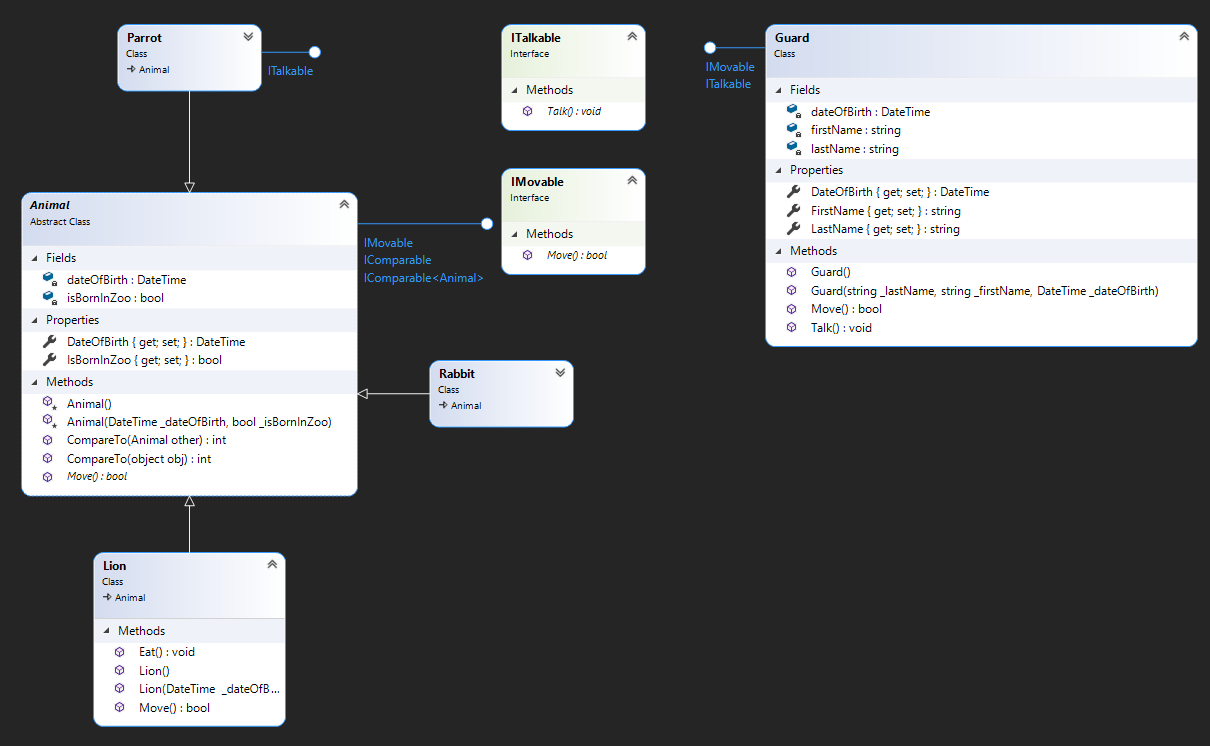
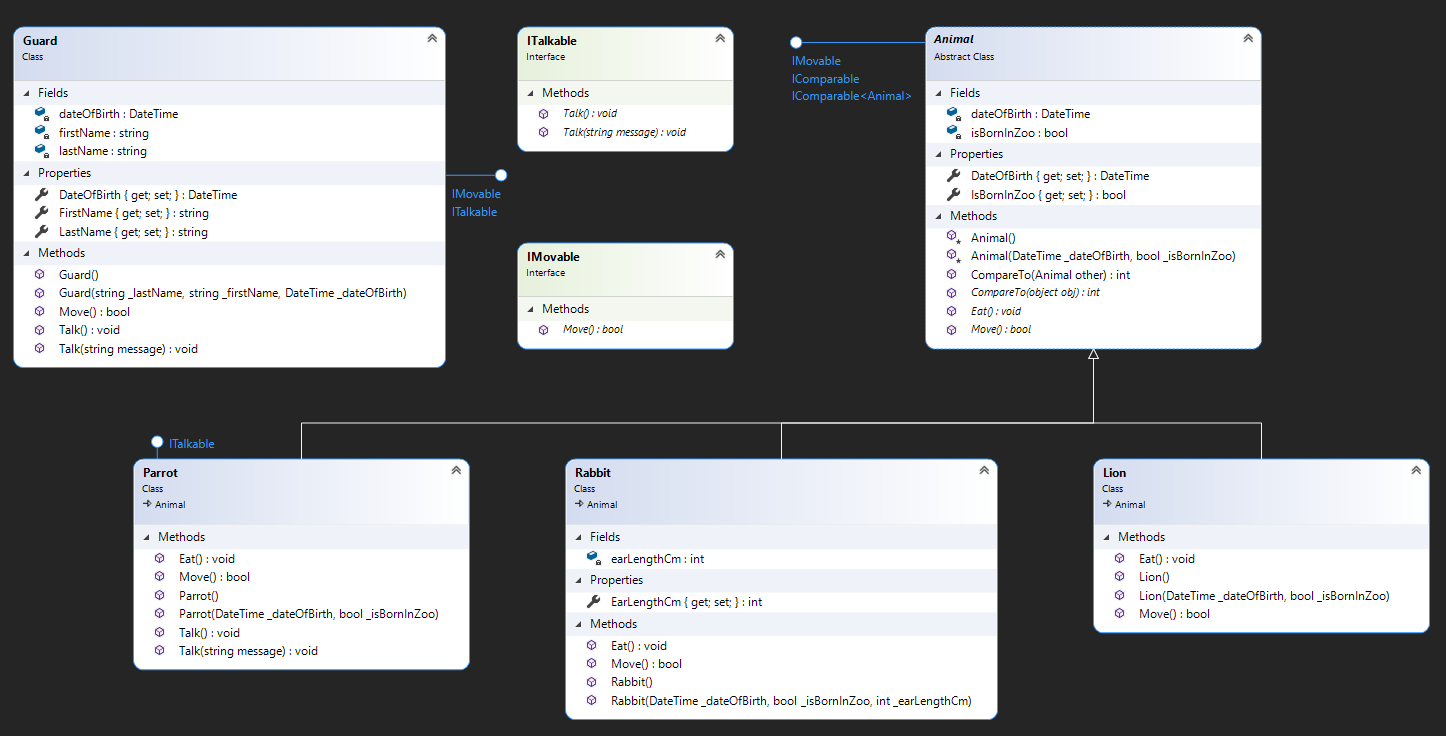
Zoo v1 OK - Need comments and code cleaning

diff --git a/EXERCISES-CDA/ZOO/Utils/Script/ScriptClass.cs b/EXERCISES-CDA/ZOO/Utils/Script/ScriptClass.cs
@@ -1,4 +1,5 @@
 using System;
+using System.Collections;
 using System.Collections.Generic;
 using System.Linq;
 using System.Text;
@@ -64,15 +65,15 @@ namespace ZOO.Utils.Script
             {
                 dontWannaBurn.Move();
             }
-            Console.ReadKey();
             Console.WriteLine("\nPress any key to continue the story...\n");
             Console.WriteLine("......................................\n");
+            Console.ReadKey();
 
             Console.WriteLine("Well, all animals are safe ! Now " + georges.FirstName + " needs to leave though \n");
             georges.Move();
-            Console.ReadKey();
             Console.WriteLine("\nPress any key to continue the story...\n");
             Console.WriteLine("......................................\n");
+            Console.ReadKey();
 
             Console.WriteLine("Lets try to stop the fire and ask for help... Can we count on the parrot ?\n");
             string sos = "PLEASE, CALL THE FIREGUARDS";
@@ -86,14 +87,40 @@ namespace ZOO.Utils.Script
                     georges.Talk($"He's right {sos}");
                 }
             }
-            Console.ReadKey();
             Console.WriteLine("\nPress any key to continue the story...\n");
             Console.WriteLine("......................................\n");
-
-            Console.WriteLine("Fireguards finally came, the zoo is safe !");
             Console.ReadKey();
+
+            Console.WriteLine("It's time to feed the animals :");
+            foreach (Animal wannaEatTheParrot in animalTab)
+            {
+                wannaEatTheParrot.Eat();
+            }
+            Console.WriteLine("\nPress any key to continue the story...\n");
+            Console.WriteLine("......................................\n");
+            Console.ReadKey();
+
+            Console.WriteLine("Fireguards finally came, the zoo is safe, let's sing a song !\n");
+            ArrayList parrotAndGeorge = new ArrayList();
+            parrotAndGeorge.Add(animalTab[2]);
+            parrotAndGeorge.Add(georges);
+            string song = "Ah Ah Ah staying aliiiiive !!!";
+            foreach (Object singer in parrotAndGeorge)
+            {
+                if (singer is Parrot theNoisyParrot)
+                {
+                    Console.Write("Parrot : ");
+                    theNoisyParrot.Talk(song);
+                }
+                else if (singer is Guard georgesWannaBeMadonna)
+                {
+                    Console.Write($"{georges.FirstName} : ");
+                    georgesWannaBeMadonna.Talk(song);
+                }
+            }
             Console.WriteLine("\nPress any key to close the program\n");
             Console.WriteLine("......................................\n");
+            Console.ReadKey();
         }
     }
 }

diff --git a/EXERCISES-CDA/ZOO/ClassZoo/Animals/Animal.cs b/EXERCISES-CDA/ZOO/ClassZoo/Animals/Animal.cs
@@ -51,6 +51,8 @@ namespace ZOO
         /****************************** METHODS ******************************/
         public abstract bool Move();
 
+        public abstract void Eat();
+
         public int CompareTo(object obj)
         {
             if (!(obj is Animal animalToCompare))

diff --git a/EXERCISES-CDA/ZOO/ClassZoo/Animals/Parrot.cs b/EXERCISES-CDA/ZOO/ClassZoo/Animals/Parrot.cs
@@ -20,7 +20,7 @@ namespace ZOO
         // NONE
 
         /****************************** METHODS ******************************/
-        public void Eat()
+        public override void Eat()
         {
             Console.WriteLine("The parrot is eating !");
         }

diff --git a/EXERCISES-CDA/ZOO/ClassZoo/Animals/Lion.cs b/EXERCISES-CDA/ZOO/ClassZoo/Animals/Lion.cs
@@ -20,7 +20,7 @@ namespace ZOO
         // NONE
 
         /****************************** METHODS ******************************/
-        public void Eat()
+        public override void Eat()
         {
             Console.WriteLine("The lion is eating !");
         }

diff --git a/EXERCISES-CDA/ZOO/ClassZoo/Animals/Rabbit.cs b/EXERCISES-CDA/ZOO/ClassZoo/Animals/Rabbit.cs
@@ -34,7 +34,7 @@ namespace ZOO
 
 
         /****************************** METHODS ******************************/
-        public void Eat()
+        public override void Eat()
         {
             Console.WriteLine("The rabbit is eating !");
         }

diff --git a/EXERCISES-CDA/ZOO/Program.cs b/EXERCISES-CDA/ZOO/Program.cs
@@ -13,7 +13,7 @@ namespace ZOO
 
             /// TestAllClasses.All();
 
-            /// ScriptClass.Script();
+            ScriptClass.Script();
         }
     }
 }
